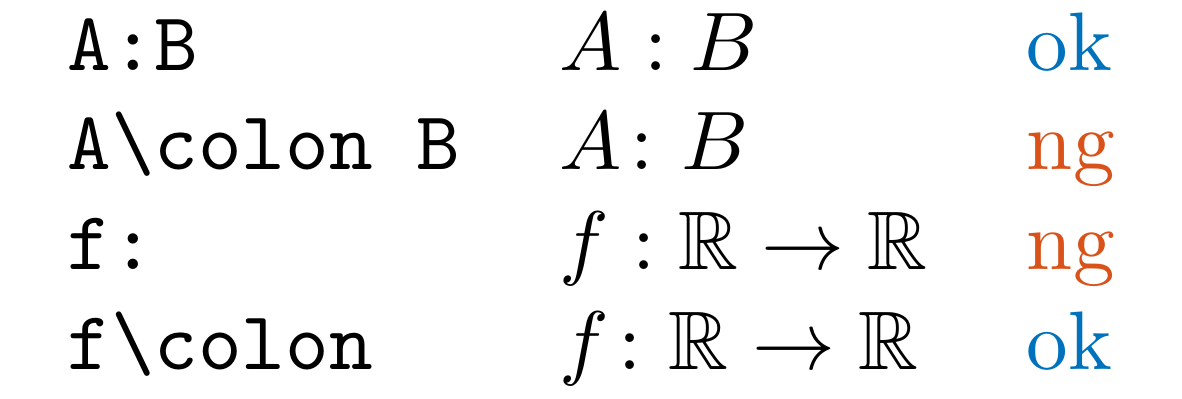
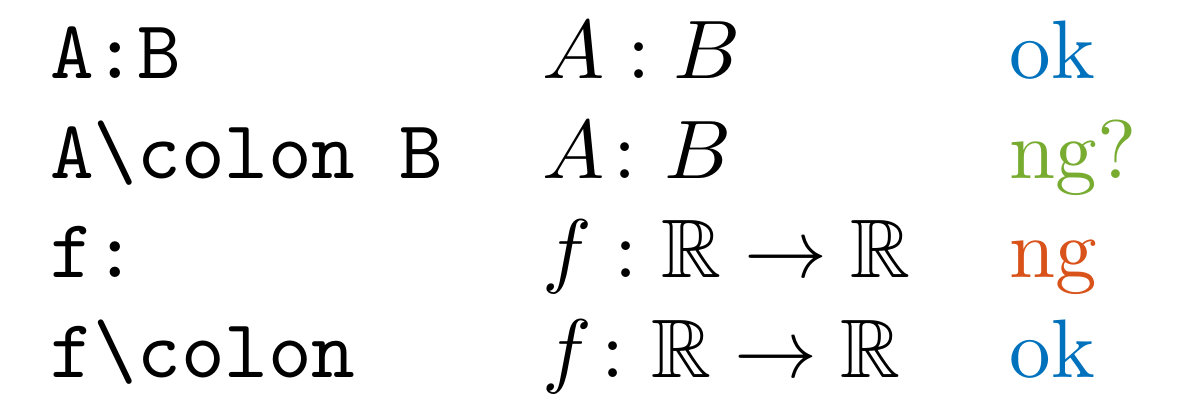
fix LLPeriod

diff --git a/src/util/constants.ts b/src/util/constants.ts
@@ -21,6 +21,7 @@ export const LLCodeStrings = [
     'LLJapaneseSpace',
     'LLLlGg',
     'LLNonASCII',
+    'LLPeriod',
     'LLRefEq',
     'LLSharp',
     'LLSI',
@@ -51,6 +52,7 @@ export const messages: Record<LLCode, string> = {
     LLJapaneseSpace: 'Consider adding a space at here.',
     LLLlGg: 'Consider using %1 instead of %2.',
     LLNonASCII: 'This is a non-ASCII character. Is this intentional?',
+    LLPeriod: 'Consider adding a comma "e.g.," or using "e.g.\\ " to avoid spacing issues.',
     LLRefEq: 'Consider using \\eqref instead of \\ref for equations.',
     LLSharp: 'If this sharp is for a number sign, consider using \\#.',
     LLSI: 'If this is a unit, consider using the siunitx(\\SI{number}{unit}). Otherwise, register as an exception.',
@@ -81,6 +83,7 @@ export const severity: Record<LLCode, vscode.DiagnosticSeverity> = {
     LLJapaneseSpace: INFO,
     LLLlGg: WARN,
     LLNonASCII: INFO,
+    LLPeriod: WARN,
     LLRefEq: WARN,
     LLSharp: WARN,
     LLSI: WARN,

diff --git a/src/util/enumerateDiagnostics.ts b/src/util/enumerateDiagnostics.ts
@@ -17,6 +17,7 @@ import LLFootnote from '../LL/LLFootnote';
 import LLJapaneseSpace from '../LL/LLJapaneseSpace';
 import LLLlGg from '../LL/LLLlGg';
 import LLNonASCII from '../LL/LLNonASCII';
+import LLPeriod from '../LL/LLPeriod';
 import LLRefEq from '../LL/LLRefEq';
 import LLSharp from '../LL/LLSharp';
 import LLSI from '../LL/LLSI';
@@ -63,6 +64,7 @@ export default function enumerateDiagnostics(doc: vscode.TextDocument): vscode.D
         LLJapaneseSpace,
         LLLlGg,
         LLNonASCII,
+        LLPeriod,
         LLRefEq,
         LLSharp,
         LLSI,

diff --git a/src/LL/LLPeriod.ts b/src/LL/LLPeriod.ts
@@ -1,0 +1,10 @@
+import * as vscode from 'vscode';
+import regex2diagnostics from '../util/regex2diagnostics';
+
+export default function LLPeriod(doc: vscode.TextDocument, txt: string): vscode.Diagnostic[] {
+    return regex2diagnostics(
+        doc, txt,
+        "LLPeriod",
+        /\b(?:i\.e\.|e\.g\.) /g
+    );
+}

diff --git a/doc/LLColonForMapping.tex b/doc/LLColonForMapping.tex
@@ -22,7 +22,7 @@
     \centering
     \begin{tabular}{lll}
         \verb|A:B|       & $A:B$                               & \tA{ok} \\
-        \verb|A\colon B| & $A\colon B$                         & \tD{ng} \\
+        \verb|A\colon B| & $A\colon B$                         & \tC{ng?} \\
         \verb|f:|        & $f:\mathbb{R} \to \mathbb{R}$       & \tD{ng} \\
         \verb|f\colon|   & $f\colon \mathbb{R} \to \mathbb{R}$ & \tA{ok}
     \end{tabular}

diff --git a/src/test/rules.test.py b/src/test/rules.test.py
@@ -18,6 +18,7 @@ def getPackageJson():
 def getEnumerateDiagnostics():
     with open(curPath + "/../../src/util/enumerateDiagnostics.ts") as f:
         lines = f.readlines()
+        i = 0
         for i, line in enumerate(lines):
             if "Object.entries" in line:
                 break

diff --git a/CHANGELOG.md b/CHANGELOG.md
@@ -12,6 +12,7 @@ All notable changes to the "latexlint" extension will be documented in this file
 
 ## 1.4.48 - 2025-09-13
 
+- Add implementation of `LLPeriod`.
 - Improve `LLSharp` detection
 
 ## 1.4.47 - 2025-07-29
